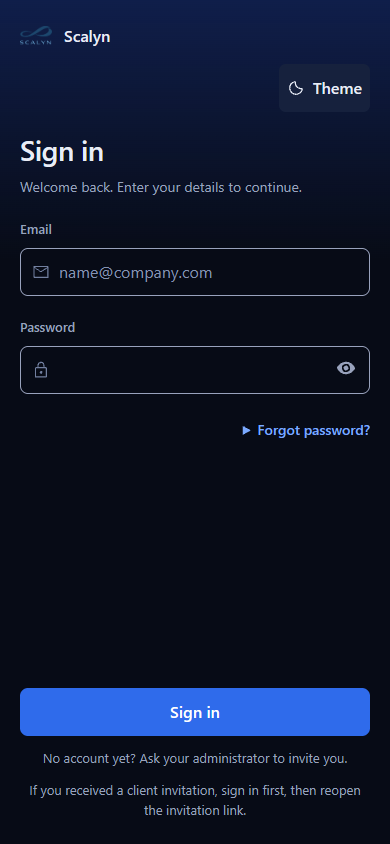
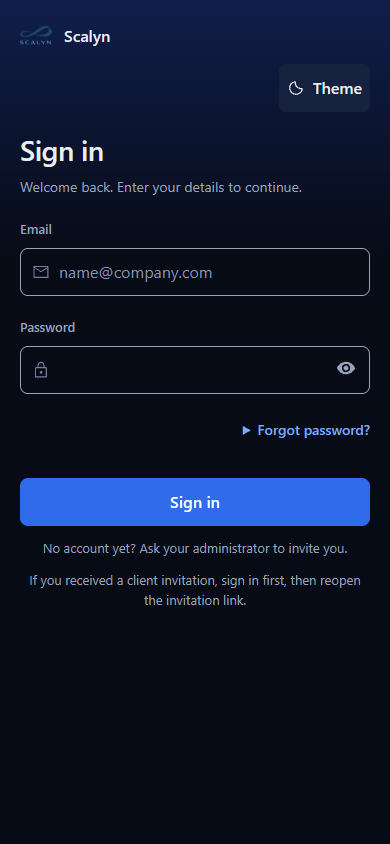
Keep mobile sign-in action near password fields

Changed region(s): [[0.0308, 0.8009, 0.9538, 0.9858], [0.0308, 0.5545, 0.9538, 0.7393]]

diff --git a/tests/guest-ui-browser/guest.spec.ts b/tests/guest-ui-browser/guest.spec.ts
@@ -114,6 +114,9 @@ test('guest sign-in and private account links preserve authentication and one-ti
       .boundingBox();
     expect(toggleBox!.width).toBeGreaterThanOrEqual(44);
     expect(toggleBox!.height).toBeGreaterThanOrEqual(44);
+    const forgotBox = await page.getByText('Forgot password?', { exact: true }).boundingBox();
+    const submitBox = await page.getByRole('button', { name: 'Sign in', exact: true }).boundingBox();
+    expect(submitBox!.y - (forgotBox!.y + forgotBox!.height)).toBeLessThanOrEqual(48);
     expect(
       await page
         .getByLabel('Email', { exact: true })

diff --git a/apps/web/app/components/ui/guest.module.css b/apps/web/app/components/ui/guest.module.css
@@ -368,9 +368,16 @@
   .form {
     flex: 1;
   }
+  .signIn .form {
+    flex: 0 0 auto;
+  }
   .actions {
     margin-top: auto;
     padding-top: var(--ui-space-5);
+  }
+  .signIn .actions {
+    margin-top: 0;
+    padding-top: 0;
   }
   .shell.shell.shell
     input:not([type='checkbox']):not([type='radio']):not([type='file']):not([type='color']):not(

diff --git a/docs/implementation/LOGIN_PASSWORD_ICON_QA.md b/docs/implementation/LOGIN_PASSWORD_ICON_QA.md
@@ -18,3 +18,7 @@ Authentication, recovery, MFA, validation, autocomplete and password limits are 
 Screenshots contain empty fields and synthetic branding: [desktop](screenshots/login-password-icon/desktop.png), [mobile](screenshots/login-password-icon/mobile.png).
 
 These are local automated checks and visual inspection, not human acceptance or a claim of full application parity. Nothing pushed, merged or deployed.
+
+## Mobile action spacing correction
+
+Bernie identified that the mobile Sign in button was too far below the fields. The mobile sign-in form no longer grows to fill the viewport or pushes its action to the bottom; the button now follows Forgot password with the normal form gap. Other guest forms retain their prior layout. The isolated guest journey passes at 390, 320 and 800px, including a new assertion that the gap from recovery link to Sign in stays within 48px. The 390px screenshot was refreshed and visually inspected. TypeScript and production build pass. This remains local pending team review.
